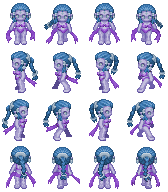
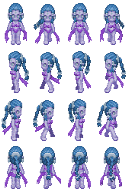
dragon appear

diff --git a/HA Project/MoveFunc.py b/HA Project/MoveFunc.py
@@ -81,12 +81,17 @@ def run(chk,map,man):
         man.y = 284.5
         man.movePosition=[False,False,False,False]
         skin=load_image('Resources\\Monster\\rocket.png')
+        skin2=load_image('Resources\\Monster\\Dragon.png')
         rocket=Monster(skin,'Rocket')
-        map.setMonster(rocket)
+        dragon=Monster(skin2,'Dragon')
+        map.setMonster(rocket,dragon)
         map.monster.x=map.x/2
         map.monster.y=map.y/2
+        map.dragon.x=map.x/2-150
+        map.dragon.y = map.y / 2 - 30
         map.draw()
         map.monster.drawFirst()
+        map.dragon.drawFirst()
         man.drawFirst()
         man.update()
         while (True):          # y 300 700 x 469~534
@@ -94,7 +99,11 @@ def run(chk,map,man):
             if map.chk == True:
                 if 25>= dist(man, map.monster):
                     clear_canvas()
-                    return 'battle',man
+                    return 'battle', man,'Rocket'
+                elif 50>= dist(man, map.dragon):
+                    clear_canvas()
+                    return 'battle', man,'Dragon'
+
             handle_events(man)
             get_events()
             if man.x>=469 and man.x<=534 and man.y>=700:
@@ -108,7 +117,7 @@ def run(chk,map,man):
                 man.y += 5
                 man.draw()
                 man.update()
-                delay(0.1)
+                delay(0.05)
 
             if man.movePosition[DOWN]:
                 man.y -= 5
@@ -116,7 +125,7 @@ def run(chk,map,man):
                 map.draw()
                 man.draw()
                 man.update()
-                delay(0.1)
+                delay(0.05)
 
             if man.movePosition[RIGHT]:
                 man.x += 5
@@ -124,7 +133,7 @@ def run(chk,map,man):
                 map.draw()
                 man.draw()
                 man.update()
-                delay(0.1)
+                delay(0.05)
 
             if man.movePosition[LEFT]:
                 man.x -= 5
@@ -132,7 +141,7 @@ def run(chk,map,man):
                 map.draw()
                 man.draw()
                 man.update()
-                delay(0.1)
+                delay(0.05)
         return 'outofhouse'
 
 

diff --git a/HA Project/CharClass.py b/HA Project/CharClass.py
@@ -37,11 +37,18 @@ class Monster(baseofCharacter):
         self.skillX=0
         self.skillY=0
         self.hp,mp=10,30
+        self.battle=0
         self.dp=0
     def drawFirst(self):
-        self.skin.clip_draw(0, 48 * 3, 42 - 12, 48,self.x,self.y)
+        if self.type=='Rocket':
+            self.skin.clip_draw(0, 48 * 3, 42 - 12, 48,self.x,self.y)
+        elif self.type=='Dragon':
+            self.skin.clip_draw(0, 96, 96, 96, self.x, self.y)
     def drawBattle(self):
-        self.skin.clip_draw(0, 48 * 2, 42 - 12, 48, self.x, self.y)
+        if self.type=='Rocket':
+            self.skin.clip_draw(0, 48 * 2, 42 - 12, 48, self.x, self.y)
+        if self.type=='Dragon':
+            self.skin.clip_draw(0, 96*2, 96, 96, self.x, self.y)
         font = load_font('ENCR10B.TTF', 30)
         font.draw(self.x-100, self.y - 50, 'HP: %d' % self.hp)
     def setHitEffect(self,Effect):

diff --git a/HA Project/Battle.py b/HA Project/Battle.py
@@ -70,14 +70,21 @@ def handle_events(man,map):
 
 
 
-def battle(man,map):
+def battle(man,map,type):
 
     clear_canvas()
-    skin = load_image('Resources\\Monster\\rocket.png')
-    rocket = Monster(skin, 'Rocket')
-    map.setMonster(rocket)
-    map.monster.x = map.x-30
-    map.monster.y = map.y / 2
+    if type=='Rocket':
+        skin = load_image('Resources\\Monster\\rocket.png')
+        rocket = Monster(skin, 'Rocket')
+        map.setBattleMonster(rocket,'Rocket')
+        map.monster.x = map.x-30
+        map.monster.y = map.y / 2
+    elif type=='Dragon':
+        skin = load_image('Resources\\Monster\\Dragon.png')
+        dragon = Monster(skin, 'Dragon')
+        map.setBattleMonster(dragon,'Dragon')
+        map.monster.x = map.x-100
+        map.monster.y = map.y / 2
     map.draw()
     man.x=30
     man.y=map.y/2

diff --git a/HA Project/map.py b/HA Project/map.py
@@ -5,15 +5,24 @@ class Map:
          self.y=y
          self.name=name
          self.chk=False
-    def setMonster(self,monster):
+    def setMonster(self,monster,dragon):
         self.monster=monster
+        self.dragon=dragon
         self.chk=True
-#t
+
+    def setBattleMonster(self, monster,type):
+        self.monster = monster
+        self.type=type
+        self.chk = True
+
+    #t
     def draw(self):
          self.map.draw(self.x/2,self.y/2)
          if self.chk ==True:
              if self.name != 'battle':
                 self.monster.drawFirst()
+                self.dragon.drawFirst()
              else:
-                 self.monster.drawBattle()
+                self.monster.drawBattle()
+
 

diff --git a/HA Project/Main.py b/HA Project/Main.py
@@ -32,7 +32,7 @@ while(True):
         else:
             man.skin=load_image('Resources\\MainCharacter\\Original.png')
             man.skinType='Original'
-        retval,man=run('run',map,man)
+        retval,man,type=run('run',map,man)
     elif retval=='battle':
         bmap=load_image('Resources\\Map\\Battle.png')
         map=Map(bmap,1008,689,'battle')
@@ -42,4 +42,4 @@ while(True):
         else:
             man.skin=load_image('Resources\\MainCharacter\\Original.png')
             man.skinType='Original'
-        retval,man = battle(man,map)
+        retval,man = battle(man,map,type)
